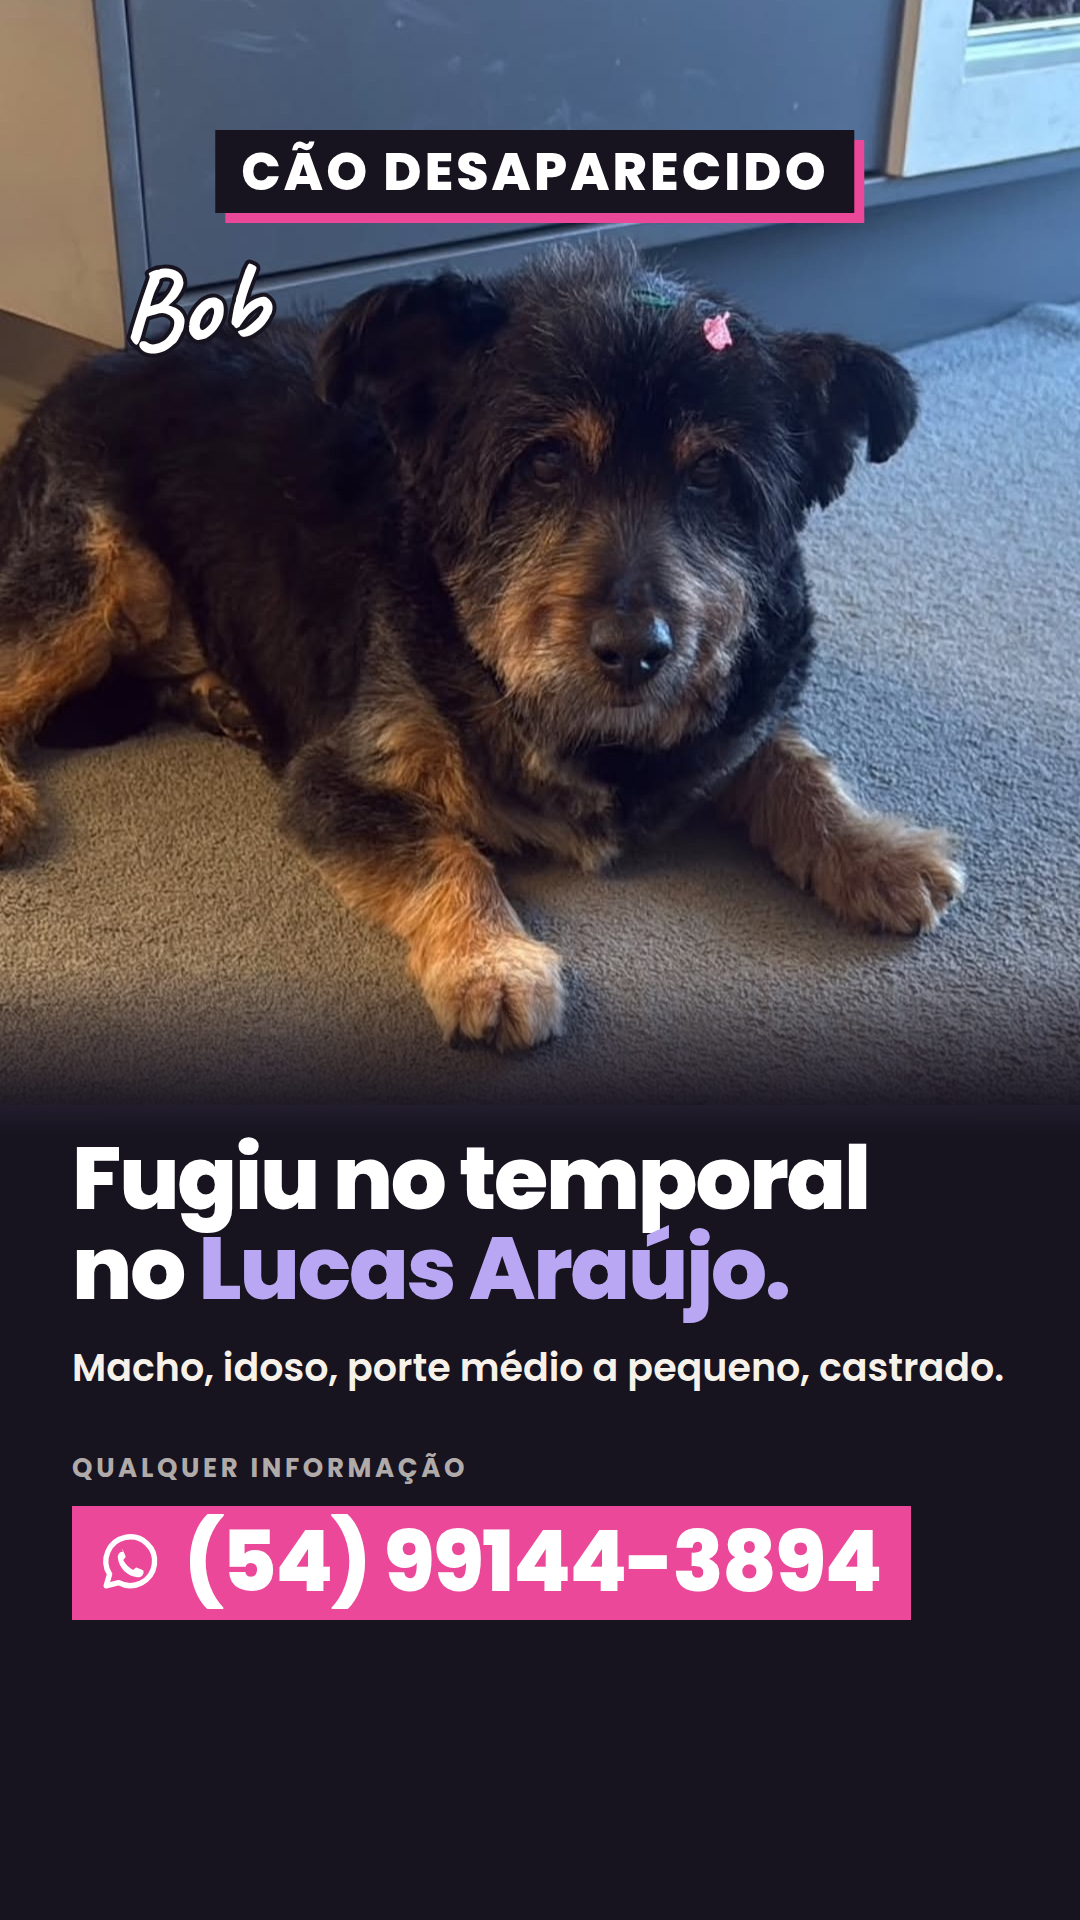
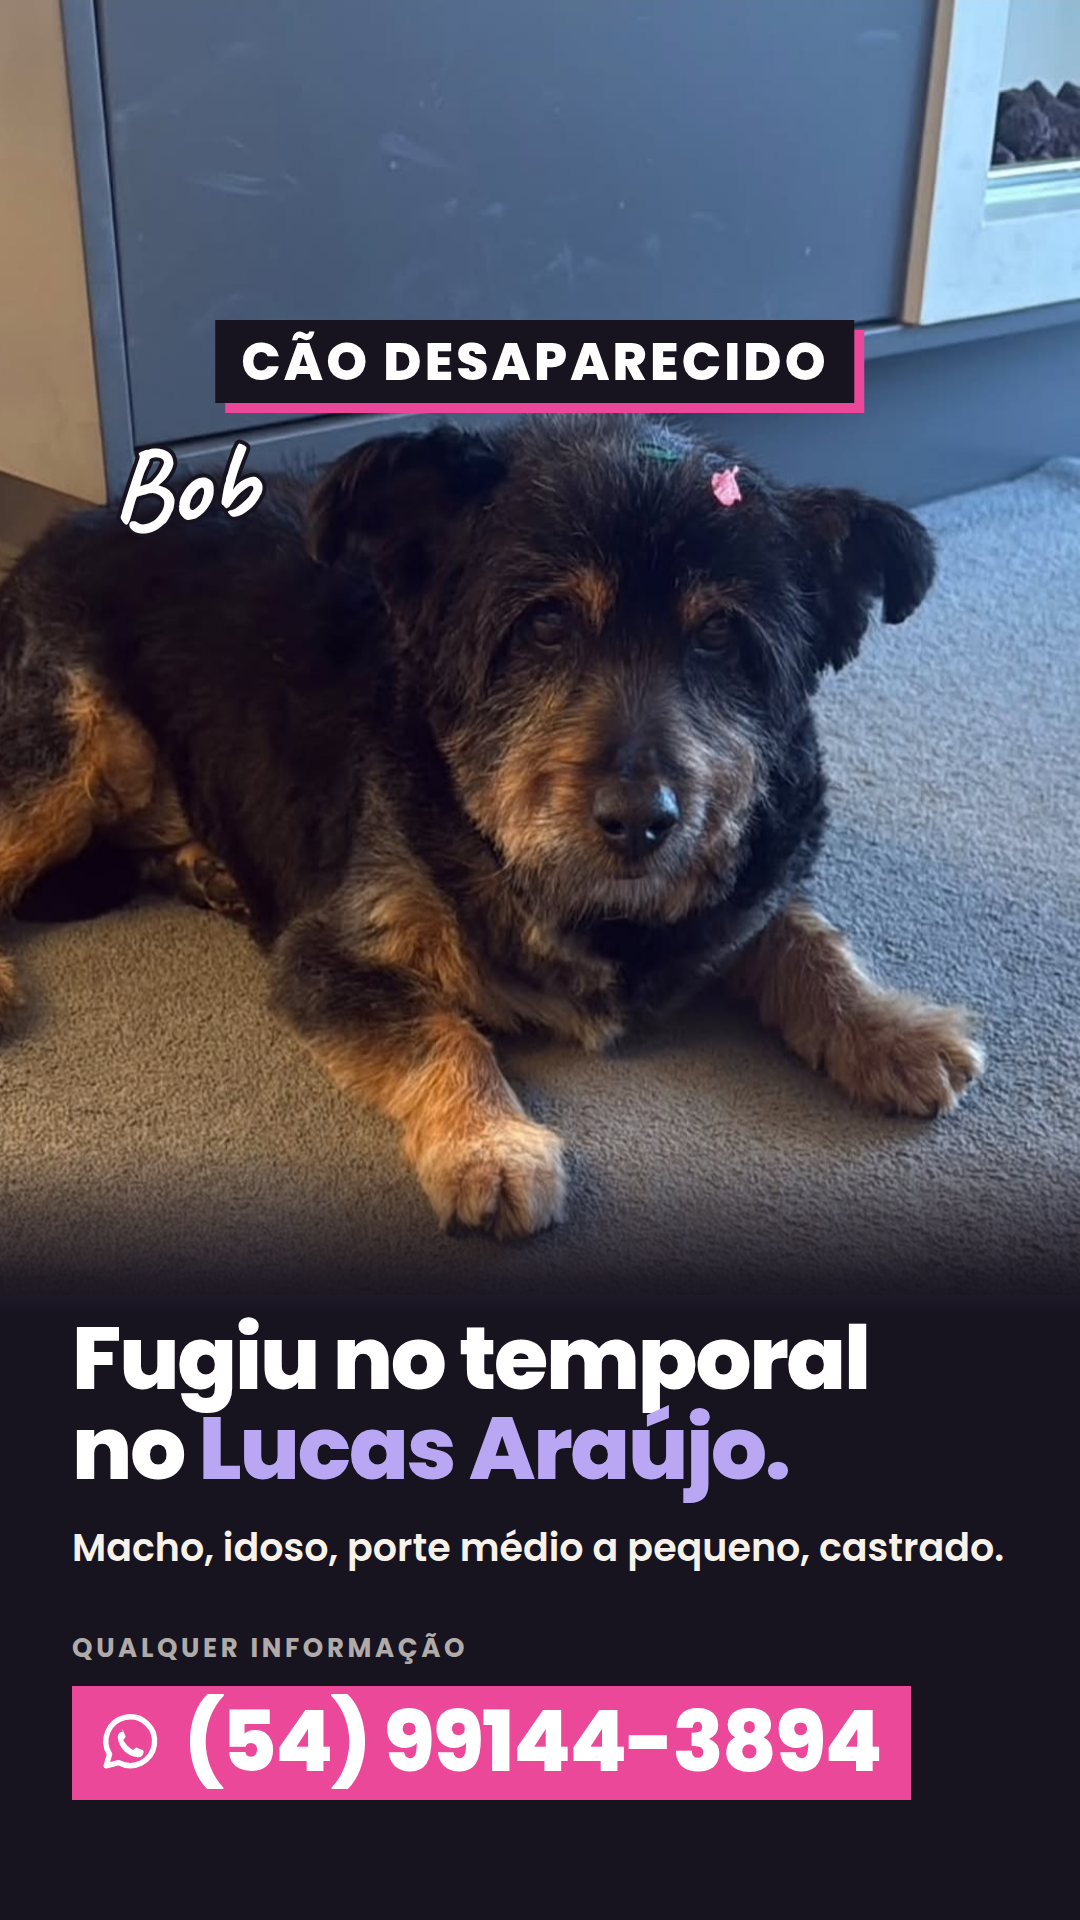
Desce o conteúdo do Story do Bob (~10%)
Tag, nome, foto e texto descem cerca de 190 px; a foto usa mais do
print (a partir do topo do armário) e é levemente ampliada no Story
para não sobrar fundo em cima. O feed fica igual.

Claude-Session: https://claude.ai/code/session_01LB3FvrkAmk6YFkQbed9wG3

diff --git a/templates/desaparecidos/bob.html b/templates/desaparecidos/bob.html
@@ -8,7 +8,7 @@
   paleta ink/lilás/rosa, Poppins ExtraBold, caixas retas como as legendas dos Reels e o nome à mão (Caveat).
   O mesmo conteúdo sai em dois formatos: feed 1080x1350 (#feed) e Stories/TikTok 1080x1920 (clonado pelo script).
   Caso Bob (perdidos/bob.jpeg): cópia do index.html com foto comum em vez do recorte.
-  A foto é a faixa sem texto do print recebido (img/bob.jpg, 1080x1105), presa no topo; o degradê do texto cobre a base dela.
+  A foto é a faixa sem texto do print recebido (img/bob.jpg, 1080x1239), presa no topo; o degradê do texto cobre a base dela.
 
   Os cães são o foco: o degradê ink fica só atrás do bloco de texto (sobe --fade px acima dele).
   Foto: .recorte é um PNG recortado sobre o fundo lilás, posicionado pelas coordenadas da arte original
@@ -29,11 +29,12 @@ body{background:#000;font-family:P,sans-serif;-webkit-font-smoothing:antialiased
 .card{width:1080px;height:1350px;position:relative;overflow:hidden;color:#fff;
   background:radial-gradient(ellipse 70% 45% at 50% 38%,#C9BAF6 0%,var(--lilac) 100%);
   /* foto: escala e posição da faixa recortada (a faixa começa em y=440 na arte original) */
-  --py:-170px;--top:56px;--bottom:70px;--fade:150px}
-.card.story{height:1920px;--py:0px;--top:130px;--bottom:300px;--fade:170px}
+  --py:-304px;--top:56px;--bottom:70px;--fade:150px}
+.card.story{height:1920px;--py:0px;--top:320px;--bottom:120px;--fade:170px}
 
 .recorte{position:absolute;left:var(--x);top:var(--y);width:calc(1145px * var(--s))}
 .foto{position:absolute;left:0;top:var(--py);width:1080px}
+.story .foto{left:-24px;width:1129px}  /* Stories: um pouco maior, para a foto descer junto com o texto sem sobrar fundo em cima */
 
 /* tag em destaque: caixa ink com a sombra rosa deslocada (como o "TCHAU, CARTAZ" do Reel 02) */
 .tag{position:absolute;top:var(--top);left:72px;z-index:3;background:var(--ink);color:#fff;
@@ -47,7 +48,7 @@ body{background:#000;font-family:P,sans-serif;-webkit-font-smoothing:antialiased
   transform:rotate(-4deg);-webkit-text-stroke:8px var(--ink);paint-order:stroke fill;
   text-shadow:0 3px 0 rgba(23,19,31,.5)}
 
-.story .nome{left:120px;top:250px}  /* Stories: ao lado da orelha, abaixo da tag */
+.story .nome{left:110px;top:430px}  /* Stories: ao lado da orelha, abaixo da tag */
 .txt{position:absolute;left:72px;right:72px;bottom:var(--bottom);z-index:3}
 /* degradê ink só atrás do texto, até o pé do card */
 .txt::before{content:"";position:absolute;z-index:-1;left:-72px;right:-72px;
